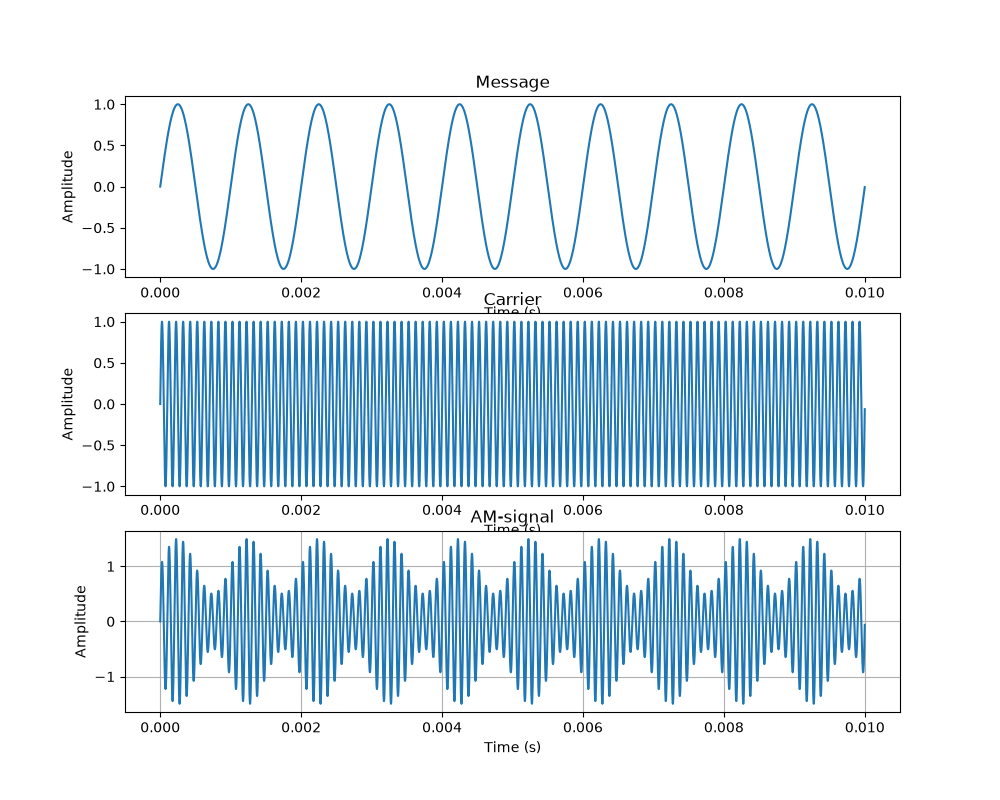
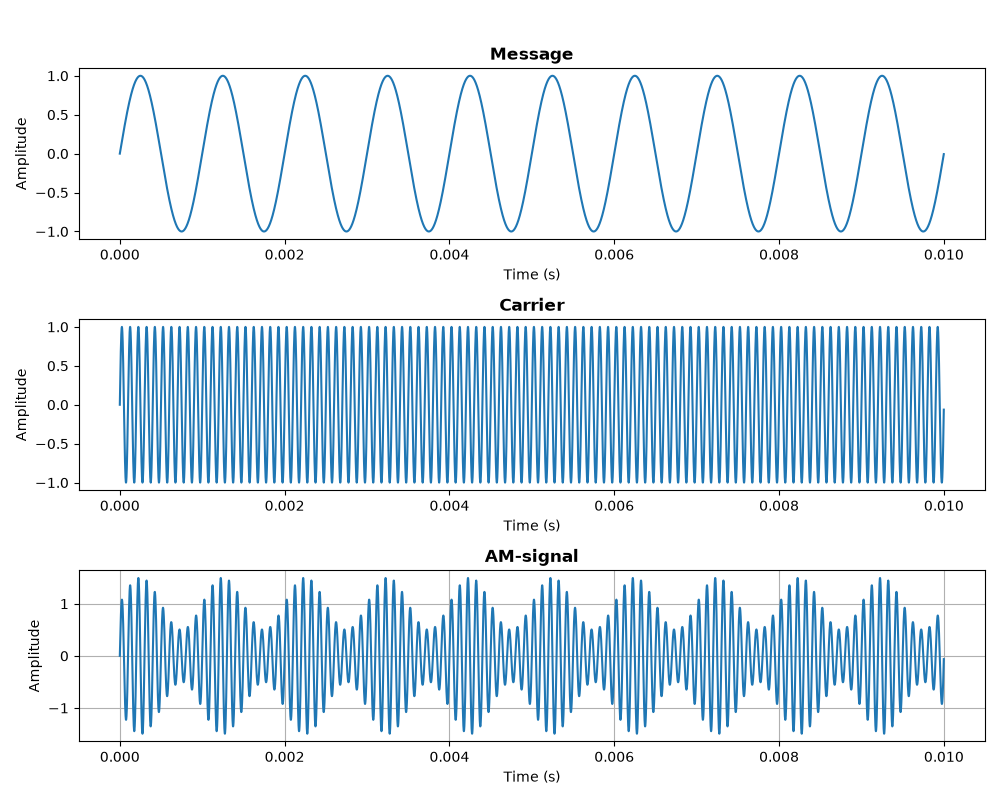
Update readme and improve plots of signals

diff --git a/src/main.py b/src/main.py
@@ -26,22 +26,23 @@ plt.subplot(3, 1, 1)
 plt.plot(t, message)
 plt.xlabel("Time (s)")
 plt.ylabel("Amplitude")
-plt.title("Message")
+plt.title("Message", fontweight='bold')
 
 #Plot carrier-wave
 plt.subplot(3, 1, 2)
 plt.plot(t, carrier)
 plt.xlabel("Time (s)")
 plt.ylabel("Amplitude")
-plt.title("Carrier")
+plt.title("Carrier", fontweight='bold')
 
 
 plt.subplot(3, 1, 3)
 plt.plot(t, am_signal)
 plt.xlabel("Time (s)")
 plt.ylabel("Amplitude")
-plt.title("AM-signal")
+plt.title("AM-signal", fontweight='bold')
 plt.grid()
+plt.tight_layout(rect=[0, 0, 1, 0.96])
 plt.savefig("results/am_signals.png")
 plt.show()
 

diff --git a/README.md b/README.md
@@ -38,6 +38,11 @@ width="600" height ="500">
 <img src = "results/am_signals_noise.png"
 width = "600" height = "500">
 
+### Noisy signal FFT analysis
+
+<img src = "results/am_signals_noise_fft.png"
+width = "600" height = "500">
+
 ## Project Status
 
 - [x] Generate message signal
